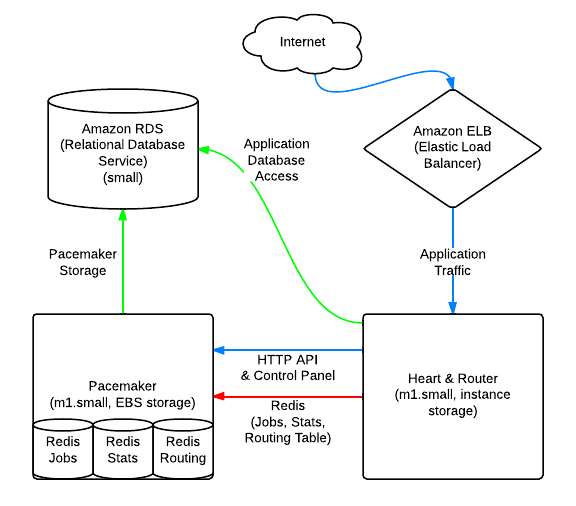
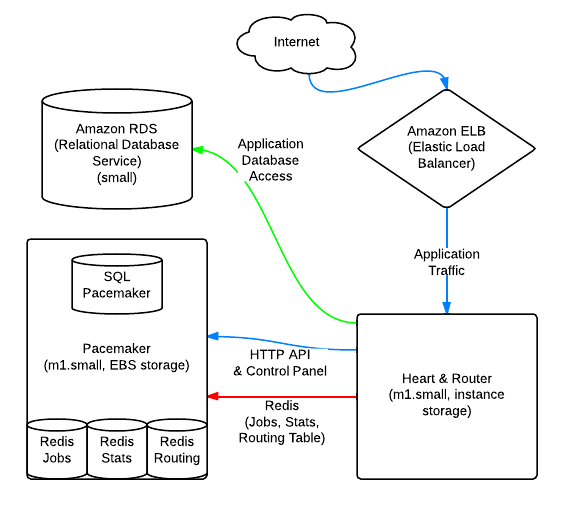
Updated the production network documentation to reflect the requirement to have the SQL database on the same node as the Pacemaker.

diff --git a/documentation/source/administrator-paasmaker-org.rst b/documentation/source/administrator-paasmaker-org.rst
@@ -17,11 +17,12 @@ The basic concept here is:
 
 * The Amazon Elastic Load Balancer is an additonal routing layer, to handle failed
   physical servers.
-* The Amazon Relational Database Service provides a MySQL like database to the Pacemaker
-  and applications. It was chosen because we can easily scale it up and down and
+* The Amazon Relational Database Service provides a MySQL like database to applications
+  running on the cluster. It was chosen because we can easily scale it up and down and
   is less things to maintain.
 * One server, running on a small instance, is the Pacemaker, that sets up applications,
-  and manages other nodes in the cluster.
+  and manages other nodes in the cluster. It also runs it's own SQL database purely for
+  the pacemaker. (In this example, I used Postgres).
 * One or more servers, initially m1.small to keep costs down, run as hearts and routers,
   and host applications and route HTTP traffic.
 
@@ -29,14 +30,20 @@ Several things needed to be chosen first before any work started. Firstly, the c
 needs a hostname which is used to automatically generate hostnames for applications
 and for the Pacemaker itself. For the production network, we chose ``production.paasmaker.net``.
 
-Also, for this guide, everything was set up in ap-southeast-2 - Sydney, Australia - because
+Also, for this guide, everything was set up in ``ap-southeast-2`` (Sydney, Australia), because
 this was the closest location for us.
 
-.. NOTE:
+.. note::
 	This is purely an example of setting up a Paasmaker cluster. Your needs will be different
 	to ours and you should consider this a guide to help you understand how to deploy
 	Paasmaker and to design your own system. Some of the steps taken in this guide are
 	purely my preferred choices in server management.
+
+.. warning::
+	At this time, you must run the SQL database for the Pacemaker on the same node as the
+	Pacemaker. This is due to the fact that early on we chose to use SQLAlchemy as an ORM
+	library, and this does not have any easy to implement asynchronous options for Tornado,
+	the asychronous Python library in use. In the future, we will remedy this issue.
 
 EC2 Security Group
 ------------------
@@ -80,6 +87,10 @@ Summary of settings:
 Amazon RDS instance
 -------------------
 
+.. NOTE::
+	In this example, the RDS is purely for databases for applications that you
+	deploy to the cluster.
+
 Set up the Amazon RDS instance. First, create a security group for your RDS instance,
 and then launch a new RDS instance with that security group. You should adjust these
 settings depending on your performance and redundancy needs.
@@ -99,8 +110,8 @@ Summary of settings:
 * Security group: the group you created before.
 * No initial database.
 
-If you don't want to use RDS, you can instead install MySQL (or Postgres) onto the
-Pacemaker node and hook that up. There are notes at that step describing this setup.
+If you don't want to use RDS, you can instead use another database server of your
+choosing, and set your Pacemaker up to use that to supply services to applications.
 
 Create Pacemaker EC2 instance
 -----------------------------
@@ -151,6 +162,14 @@ Create the initial Paasmaker database. Normally, Paasmaker would create database
 for you for applications, but it is unable to create it's own database. However,
 you don't need to import any schema - Paasmaker will do this on first startup.
 
+For our setup, we're going to use Postgres on the same machine as the Pacemaker.
+
+Install the Postgres server:
+
+.. code-block:: bash
+
+	$ sudo apt-get install postgresql
+
 Choose a username, database name, and password that the Pacemaker will use.
 For example:
 
@@ -158,34 +177,31 @@ For example:
 * Database: pacemaker
 * Password: choose a password
 
-From your login to the Pacemaker node, install a MySQL client, and use that
-to create the initial user and database. This creates a seperate username,
-database, and password for the Pacemaker itself, to isolate it from other applications.
+Now go ahead and create a seperate username and password in Postgres.
 
 .. code-block:: bash
 
-	$ sudo apt-get install mysql-client
-	$ mysql -u root -h <RDS hostname> -p
-	Password: <RDS root password>
+	$ sudo su - postgres -c psql
+	psql> CREATE USER pacemaker PASSWORD 'password';
+	psql> CREATE DATABASE pacemaker OWNER pacemaker;
+
+Alternately, you could use a local installation of MySQL instead:
+
+.. code-block:: bash
+
+	$ sudo apt-get install mysql-server
+	... when prompted, choose a MySQL root password ...
+	$ mysql -u root -h localhost -p
+	Password: <root password>
 	mysql> CREATE USER 'pacemaker'@'%' IDENTIFIED BY 'password';
 	mysql> CREATE DATABASE pacemaker;
 	mysql> GRANT ALL ON pacemaker.* TO 'pacemaker'@'%' IDENTIFIED BY 'password';
 	mysql> GRANT ALL ON pacemaker.* TO 'pacemaker'@'localhost' IDENTIFIED BY 'password';
 	mysql> quit
 
-If you don't want to use RDS, you can install a local MySQL on the Pacemaker node.
-To do that, follow these steps:
-
-.. code-block:: bash
-
-	$ sudo apt-get install mysql-server
-	... when prompted, choose a MySQL root password ...
-	$ sudo vim /etc/mysql/my.cnf
-	... change:
-	bind-address = 0.0.0.0
-	$ sudo /etc/init.d/mysql-server restart
-
-And then use the previous steps to create the initial database.
+.. warning::
+	As stated previously, using a database on different server to the Pacemaker
+	node is not supported at this time.
 
 DNS records
 -----------
@@ -216,7 +232,7 @@ file. Finally, we'll run the installer script.
 	$ sudo apt-get install git
 	$ git clone git@bitbucket.org:paasmaker/paasmaker.git
 
-Set up the configuration file. The example used for Paasmaker's production systems
+Set up the installation configuration file. The example used for Paasmaker's production systems
 is in install/configs/example-production-pacemaker.yml. You should update the file
 to match your environment, but below is a copy of the file with some more descriptions.
 
@@ -331,7 +347,11 @@ The database configuration is supplied as a `SQLalchemy DSN
 <http://docs.sqlalchemy.org/en/rel_0_8/core/engines.html#database-urls>`_. For our case,
 the DSN looks like this::
 
-	mysql://username:password@hostname/database
+	postgresql://pacemaker:password@127.0.0.1/pacemaker
+
+Or like this if you're using MySQL::
+
+	mysql://pacemaker:password@127.0.0.1/pacemaker
 
 In ``paasmaker.yml``, find the ``dsn:`` option and update it appropriately.
 
@@ -339,11 +359,11 @@ In ``paasmaker.yml``, find the ``dsn:`` option and update it appropriately.
 
 	$ vim paasmaker.yml
 	...
-	  dsn: mysql://username:password@hostname/database
+	  dsn: postgresql://pacemaker:password@127.0.0.1/pacemaker
 
 Once you've saved the file, restart Paasmaker. It will then recreate the tables on
 the server, or exit with an error if it can not connect to the database for any reason.
-It may take a while to restart (30-60 seconds) whilst it recreates the tables.
+It may take a while to restart (5-10 seconds) whilst it recreates the tables.
 
 .. code-block:: bash
 
@@ -616,7 +636,7 @@ application:
 
 .. code-block:: bash
 
-	git@bitbucket.org:paasmaker/paasmaker-tornado-advanced.git
+	git@bitbucket.org:paasmaker/paasmaker-python-simple.git
 
 Once you've created the application, you should be able to start it and then
 visit it via the URLs provided by the control panel. When you're done, you
@@ -664,7 +684,7 @@ Server Monitoring
 -----------------
 
 Don't forget to install the appropriate hooks onto the server for your server
-monitoring system. Currently, we are using `Copperegg <http://copperegg.com>`_
+monitoring system. Currently, we are using `CopperEgg <http://copperegg.com>`_
 for monitoring the production servers, to save us having to run our own monitoring
 system, such as Zabbix or Nagios.
 
@@ -686,10 +706,10 @@ as they come back online.
 * ``paasmaker.yml``. This is the configuration file. If you've made customisations
   to it, you'll want to back it up.
 
-* Backup the database. If you stored it on RDS or an external SQL database, use
-  your normal backup proceedures to back these up. If you're running on a standalone
-  box, you might find the ``automysqlbackup`` and ``autopostgresqlbackup`` packages
-  useful. In our case, I just used these instructions to create backup files:
+* Backup the database. If you're running on a standalone box, you might find the
+  ``automysqlbackup`` and ``autopostgresqlbackup`` packages useful. In our case,
+  I just used these instructions to create backup files of the RDS instance (for
+  the application databases):
 
   .. code-block:: bash
 
@@ -715,6 +735,15 @@ as they come back online.
   	$ sudo automysqlbackup
 
   And then check for files in ``/var/lib/automysqlbackup``.
+
+  If you've followed my instructions exactly, install the ``autopostgresqlbackup``
+  package, and you'll automatically have Postgres backups appear in ``/var/lib/autopostgresqlbackup``.
+
+  .. code-block:: bash
+
+  	$ sudo apt-get install autopostgresqlbackup
+  	$ sudo autopostgresqlbackup
+  	$ ls /var/lib/autopostgresqlbackup
 
   If you're using the default sqlite database, you can fetch the database file from
   the ``scratch/`` directory and back that up.
